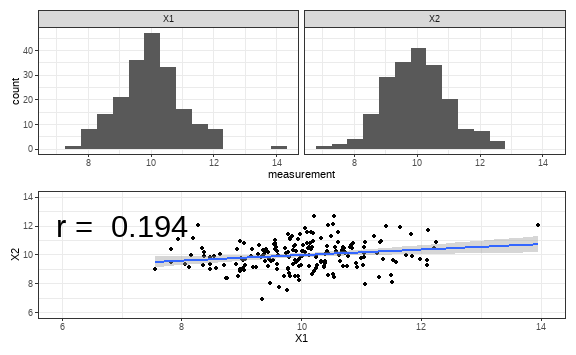
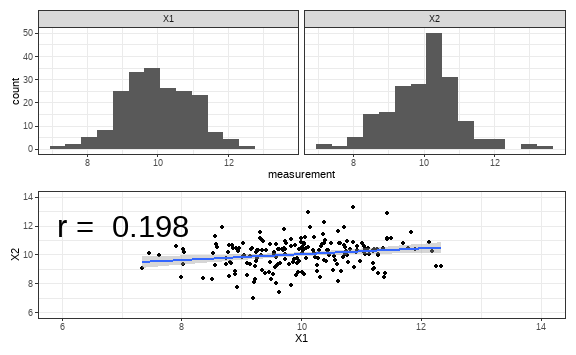
website updated

diff --git a/docs/slides/Week-23-messy-data.html b/docs/slides/Week-23-messy-data.html
@@ -61,29 +61,25 @@ class: center, middle, inverse, title-slide
 .pull-left[
 
 ```
-## `summarise()` has grouped output by 'Participant', 'Viewpoint'. You can override using the `.groups` argument.
-```
-
-```
 ## # A tibble: 16 x 4
 ##    Participant Viewpoint Block     RT
 ##          &lt;int&gt; &lt;chr&gt;     &lt;chr&gt;  &lt;dbl&gt;
-##  1           1 Different First   476.
-##  2           1 Different Second  527.
-##  3           1 Same      First   583.
-##  4           1 Same      Second  448.
-##  5           2 Different First   497.
-##  6           2 Different Second  314.
-##  7           2 Same      First   563.
-##  8           2 Same      Second  334.
-##  9           3 Different First   449.
-## 10           3 Different Second  370.
-## 11           3 Same      First   511.
-## 12           3 Same      Second  403.
-## 13           4 Different First   555.
-## 14           4 Different Second  378.
-## 15           4 Same      First   551.
-## 16           4 Same      Second  364.
+##  1           1 Different First   493.
+##  2           1 Different Second  498.
+##  3           1 Same      First   472.
+##  4           1 Same      Second  487.
+##  5           2 Different First   528.
+##  6           2 Different Second  364.
+##  7           2 Same      First   511.
+##  8           2 Same      Second  399.
+##  9           3 Different First   472.
+## 10           3 Different Second  393.
+## 11           3 Same      First   432.
+## 12           3 Same      Second  325.
+## 13           4 Different First   514.
+## 14           4 Different Second  437.
+## 15           4 Same      First   475.
+## 16           4 Same      Second  325.
 ```
 ]
 .pull-right[
@@ -164,13 +160,13 @@ t.test(RT~Block, data = example_rt_df)
 ## 	Welch Two Sample t-test
 ## 
 ## data:  RT by Block
-## t = 15.547, df = 198, p-value &lt; 2.2e-16
+## t = 17.069, df = 195, p-value &lt; 2.2e-16
 ## alternative hypothesis: true difference in means is not equal to 0
 ## 95 percent confidence interval:
-##   89.96918 116.10828
+##   95.03358 119.86422
 ## sample estimates:
 ##  mean in group First mean in group Second 
-##             504.7827             401.7439
+##             506.1324             398.6835
 ```
 
 ---
@@ -191,9 +187,9 @@ aov_ez(dv = "RT",
 ## 
 ## Response: RT
 ##            Effect    df     MSE          F  ges p.value
-## 1           Block 1, 49 2179.64 243.55 *** .554   &lt;.001
-## 2       Viewpoint 1, 49 2532.54       0.70 .004    .405
-## 3 Block:Viewpoint 1, 49 2015.71       2.74 .013    .105
+## 1           Block 1, 49 1827.64 315.85 *** .597   &lt;.001
+## 2       Viewpoint 1, 49 1411.44       0.43 .002    .515
+## 3 Block:Viewpoint 1, 49 1887.00       1.17 .006    .284
 ## ---
 ## Signif. codes:  0 '***' 0.001 '**' 0.01 '*' 0.05 '+' 0.1 ' ' 1
 ```
@@ -203,6 +199,15 @@ aov_ez(dv = "RT",
 
 .pull-left[
 ![:scale 50%](images/rstudio-primers.png)
+]
+.pull-right[
+[RStudio.cloud](https://rstudio.cloud) has a selection of built-in exercises covering a lot of the topics we've done before. 
+
+If you need a bit of practice, try going through them again!
+
+Also **USE THE DROP-INS**, use the discussion board, and use the Teams channel!
+
+Each week, Matt will go over the exercises for that week, twice, half-way through the scheduled drop-in times - so at 1000 and 1200!
 ]
 
 ---
@@ -250,16 +255,16 @@ Data can be *missing*...
 
 ```
 ##           X1        X2
-## 1         NA 12.354733
-## 2         NA 11.219671
-## 3         NA 11.032111
-## 4         NA  9.732985
-## 5         NA 10.573809
-## 6   9.324079        NA
-## 7  10.136083        NA
-## 8   9.914143  9.483711
-## 9  11.576908  9.484393
-## 10 10.502017 11.297246
+## 1         NA  8.187229
+## 2         NA 10.618545
+## 3         NA  9.205802
+## 4         NA  8.962955
+## 5         NA 11.315911
+## 6  11.055051        NA
+## 7  11.206932        NA
+## 8   9.313605 11.129617
+## 9  10.936711 10.615366
+## 10  9.680644 10.359386
 ```
 Complete cases = 193
 ]
@@ -597,16 +602,16 @@ For example, all your participants filled out three different questionnaires. Un
 
 ```
 ##           X1        X2       X3
-## 1         NA  9.075095 14.00508
-## 2         NA 10.961725 14.28846
-## 3         NA  9.628197 12.79230
-## 4         NA 10.481451 15.09579
-## 5         NA  9.792219 12.98713
-## 6   9.700088  8.728199 12.39058
-## 7   9.082696  8.694749 13.87018
-## 8  10.199386  7.589782 11.55013
-## 9  11.098623  7.697553 12.21655
-## 10 11.631170  8.486657 13.22657
+## 1         NA  9.088653 12.53607
+## 2         NA  9.094702 12.64888
+## 3         NA  9.051507 11.24390
+## 4         NA 11.214726 12.68628
+## 5         NA  8.757448 12.45727
+## 6   8.642882  7.858930 13.39132
+## 7  10.106670  9.023142 12.96492
+## 8  10.507231  8.572339 14.30972
+## 9   9.271251  8.546671 11.19039
+## 10 10.866934  9.027300 12.98126
 ```
 ]
 
@@ -617,16 +622,16 @@ For example, all your participants filled out three different questionnaires. Un
 
 ```
 ##           X1        X2       X3 age
-## 1  10.284968  8.536346 13.58791  19
-## 2   9.968460  9.831109       NA  36
-## 3  10.372126  5.662701 11.37057  19
-## 4  11.123917  9.274361 13.11056  20
-## 5   9.167731 10.294923 11.70130  18
-## 6   9.015982  9.652939 12.76359  19
-## 7   8.583906  9.837637 14.36052  20
-## 8  11.543484  8.885838 13.62754  19
-## 9  10.073846 10.049325 13.16961  20
-## 10  9.790379  8.091457 13.07923  19
+## 1   9.480976  9.000443 12.26069  19
+## 2   9.422998 10.779785 15.18144  19
+## 3  10.829593  9.687199 12.86248  19
+## 4  11.286268  8.788620 13.40144  18
+## 5  10.368057  7.786666 14.24528  19
+## 6  11.960286  9.825269       NA  22
+## 7   9.942966  8.603764 13.36350  18
+## 8  10.567030  7.931891 13.85720  19
+## 9   8.539181  9.029024 13.22592  18
+## 10 11.168047  9.917534 13.75884  20
 ```
 ]
 .pull-right[
@@ -644,16 +649,16 @@ This data is MAR - whether the data in the third column is missing is related to
 
 ```
 ##           X1        X2       X3 age
-## 1   8.104185  9.386107 12.41754  18
-## 2   8.920971  7.908768 10.86843  19
-## 3  10.757268  8.293476       NA  48
-## 4   9.147990  9.867417       NA  20
-## 5  10.234672  7.173117 12.69767  19
-## 6   9.341238 10.124051 12.59772  19
-## 7  10.892278  9.295903 13.10786  32
-## 8  11.192085  9.981432 10.84104  18
-## 9   9.572271  8.831269 12.71710  19
-## 10 11.393309  8.914425 12.17337  61
+## 1  10.713982  8.791766       NA  18
+## 2   9.628016  7.985629 12.97972  19
+## 3   9.113761  9.328709 13.25017  20
+## 4   9.646511  8.114715 12.39306  18
+## 5  10.177288 10.026316 12.48092  20
+## 6  10.196475  9.337201 13.14053  20
+## 7  10.299557  8.908330 12.55333  22
+## 8  10.644433  8.202620 12.24832  18
+## 9  10.439646  9.231142       NA  18
+## 10  8.259970  8.130322       NA  23
 ```
 ]
 .pull-right[
@@ -689,7 +694,7 @@ mean(temp_df_missing$X1, na.rm = TRUE)
 ```
 
 ```
-## [1] 9.986581
+## [1] 9.97575
 ```
 
 ```r

diff --git a/docs/slides/xaringan-themer.css b/docs/slides/xaringan-themer.css
@@ -15,7 +15,7 @@
  *    - xaringan wiki: https://github.com/yihui/xaringan/wiki
  *    - remarkjs wiki: https://github.com/gnab/remark/wiki
  *
- *  Version: 0.3.0
+ *  Version: 0.3.3
  *
  * ------------------------------------------------------- */
 @import url(https://fonts.googleapis.com/css?family=Noto+Sans:400,400i,700,700i&display=swap);
@@ -31,6 +31,7 @@
   --text-font-base: sans-serif;
   --header-font-family: Cabin;
   --header-font-is-google: 1;
+  --header-font-family-fallback: Georgia, serif;
   --code-font-family: 'Source Code Pro';
   --code-font-is-google: 1;
   --base-font-size: 22px;
@@ -51,6 +52,7 @@
   --inverse-text-color: #fdf6e3;
   --inverse-background-color: #002b36;
   --inverse-header-color: #fdf6e3;
+  --inverse-link-color: #b58900;
   --title-slide-background-color: #002b36;
   --title-slide-text-color: #fdf6e3;
   --header-background-color: #dc322f;
@@ -67,7 +69,7 @@ body {
   color: var(--text-color);
 }
 h1, h2, h3 {
-  font-family: var(--header-font-family);
+  font-family: var(--header-font-family), var(--header-font-family-fallback);
   font-weight: 600;
   color: var(--header-color);
 }
@@ -124,6 +126,9 @@ a, a > code {
 .inverse h1, .inverse h2, .inverse h3 {
   color: var(--inverse-header-color);
 }
+.inverse a, .inverse a > code {
+  color: var(--inverse-link-color);
+}
 .title-slide, .title-slide h1, .title-slide h2, .title-slide h3 {
   color: var(--title-slide-text-color);
 }
@@ -158,7 +163,7 @@ a, a > code {
   float: right;
   width: 47%;
 }
-.pull-right ~ * {
+.pull-right + * {
   clear: both;
 }
 img, video, iframe {
